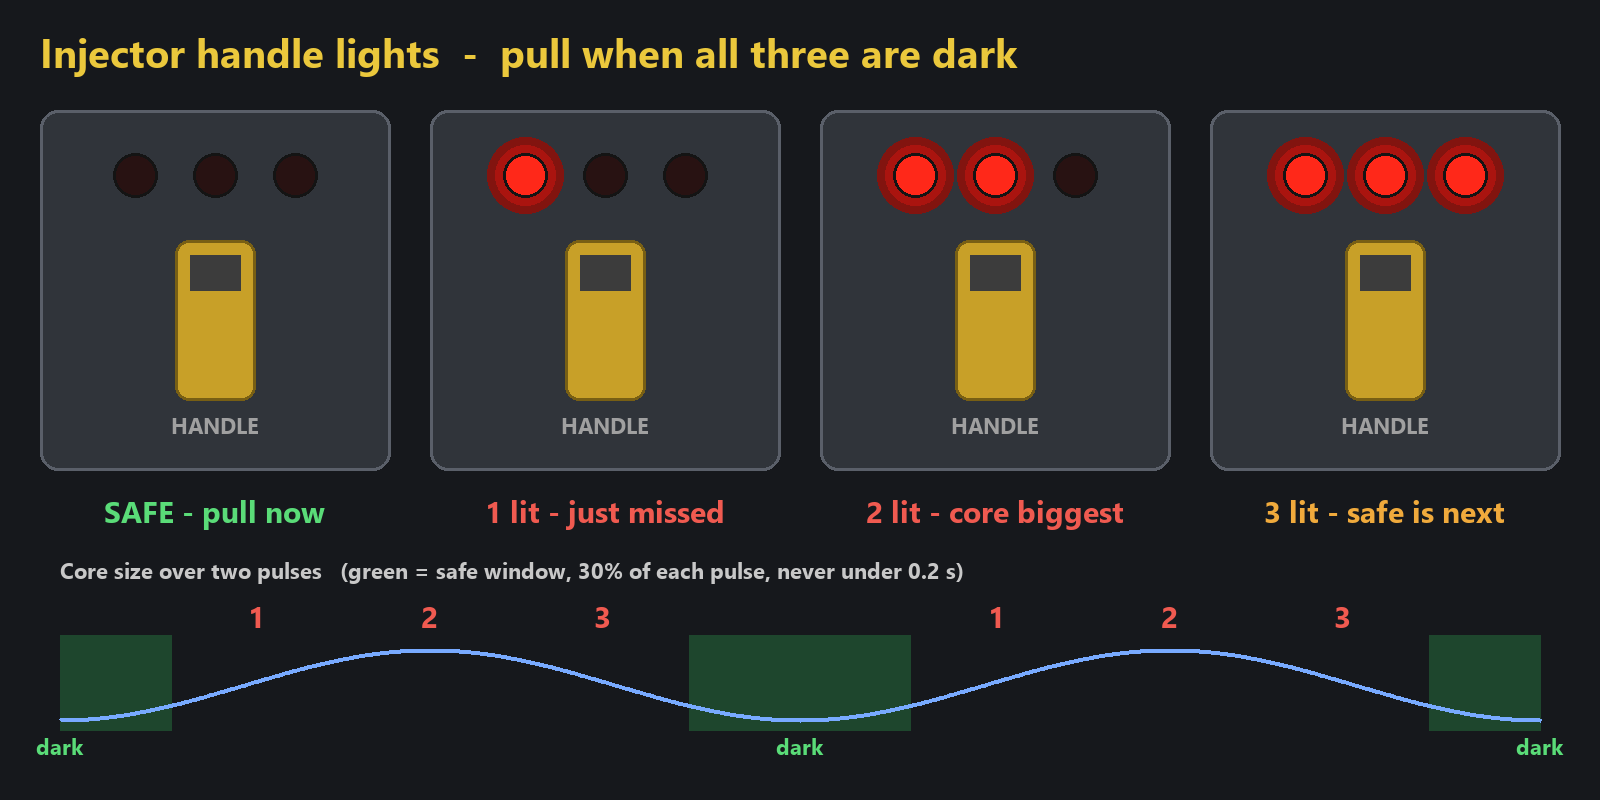
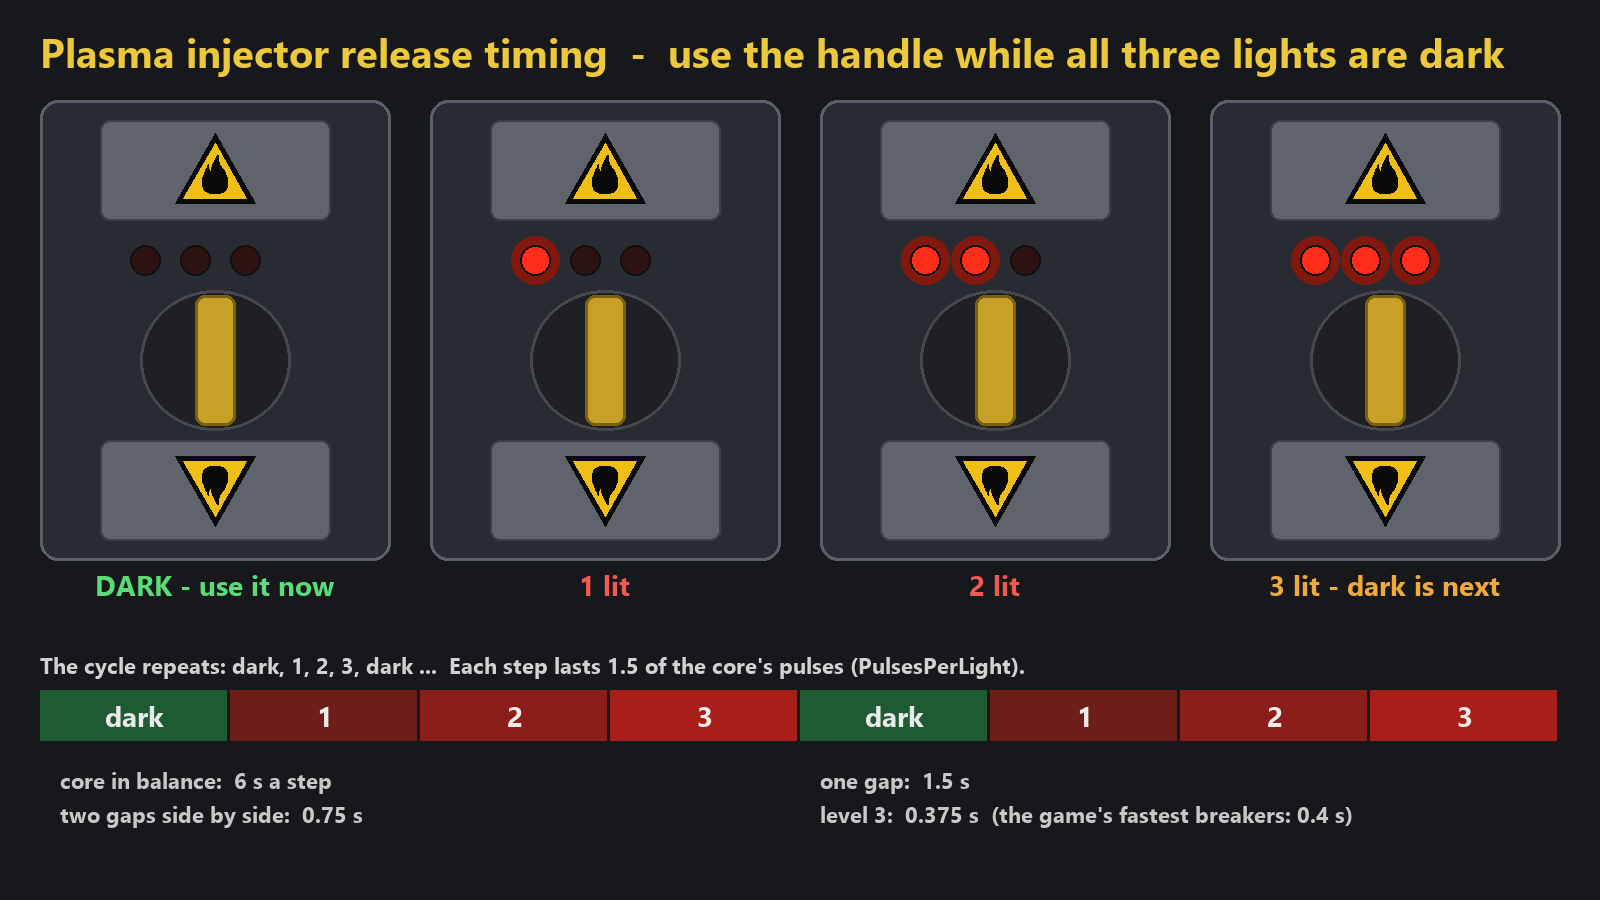
TheExpanse: flashback lands as the handle stops turning; sign/lights stay unlit on removed injectors
- A missed injector release is judged on the press, its flashback lands 2 s later as the handle finishes turning
- Hazard signs stay on the consoles of removed injectors and after the plasma is out, unlit and subdued
- Options tab trimmed (no Reactor Sounds, Handle Timing or Haptics rows); HandleTiming renamed
  PlasmaInjectorReleaseTiming in the settings file; rumble runs without the reactor sounds
- Timing diagnostics removed; handle_lights.png redrawn for the breaker-style cycle

Changed region(s): [[0.0, 0.0312, 1.0, 0.9375]]

diff --git a/TheExpanse/Reactor/ReactorControl.cs b/TheExpanse/Reactor/ReactorControl.cs
@@ -98,6 +98,7 @@ namespace TheExpanse
             sPulseAt = -1f;
             sBadSince = -1f;
             sEscalation = 0; sEscalateFrom = -1f; sLastRaw = 0f;
+            sPendingOutcome.Clear();
             sTracked = false; sJumpFrames = 0; sJumpsHeld = 0;
             try
             {
@@ -911,7 +912,8 @@ namespace TheExpanse
             injector.PressSafe = InSafeWindow();
             Plugin.Log.LogInfo($"[Reactor] injector {best} handle pulled with the lights at step {LightStage()} " +
                                $"({(injector.PressSafe ? "dark: safe" : "lit: flashback")}).");
-            Consequence(best, injector.PressSafe);
+            // The outcome lands as the handle finishes turning (it turns by itself after the press), not on the press.
+            sPendingOutcome.Add((best, injector.PressSafe, Time.time + OutcomeDelay));
         }
 
         // A joint went somewhere in the game; if it was one of an injector's (its own parts, what its handle holds, or its
@@ -949,6 +951,21 @@ namespace TheExpanse
 
         // A pulled handle's outcome: the breaker's "removed" sound if the lights were dark; otherwise a flashback: the
         // failed sound, fire at the handle, and (with PlayerDamage) heat at once and the game's fire.
+        // A pulled handle's outcome waits for the handle to finish turning, about 2 s (the press is judged at once).
+        const float OutcomeDelay = 2f;
+        static readonly List<(int Injector, bool Safe, float At)> sPendingOutcome = new List<(int, bool, float)>();
+
+        static void SettleOutcomes()
+        {
+            for (int k = sPendingOutcome.Count - 1; k >= 0; k--)
+                if (Time.time >= sPendingOutcome[k].At)
+                {
+                    var (i, safe, _) = sPendingOutcome[k];
+                    sPendingOutcome.RemoveAt(k);
+                    Consequence(i, safe);
+                }
+        }
+
         static void Consequence(int i, bool safe)
         {
             if (safe) { ReactorSound.Play("sfx_powerGenerator_breakerRemoved"); return; }
@@ -1270,6 +1287,7 @@ namespace TheExpanse
             ReactorSound.Show(BallCenter, sPulsePhase / (Mathf.PI * 2f), sShownImbalance, Unstable && sPhase != Phase.Fading,
                               sPhase == Phase.Fading ? sFade : 1f, NextStepIn(), sTouching);
             AdvanceLights(Mathf.Min(Time.deltaTime, 0.1f));
+            SettleOutcomes();
             if (InSafeWindow()) sWindowSinceCheckNext = true;
             ShowHandleLights();
         }
